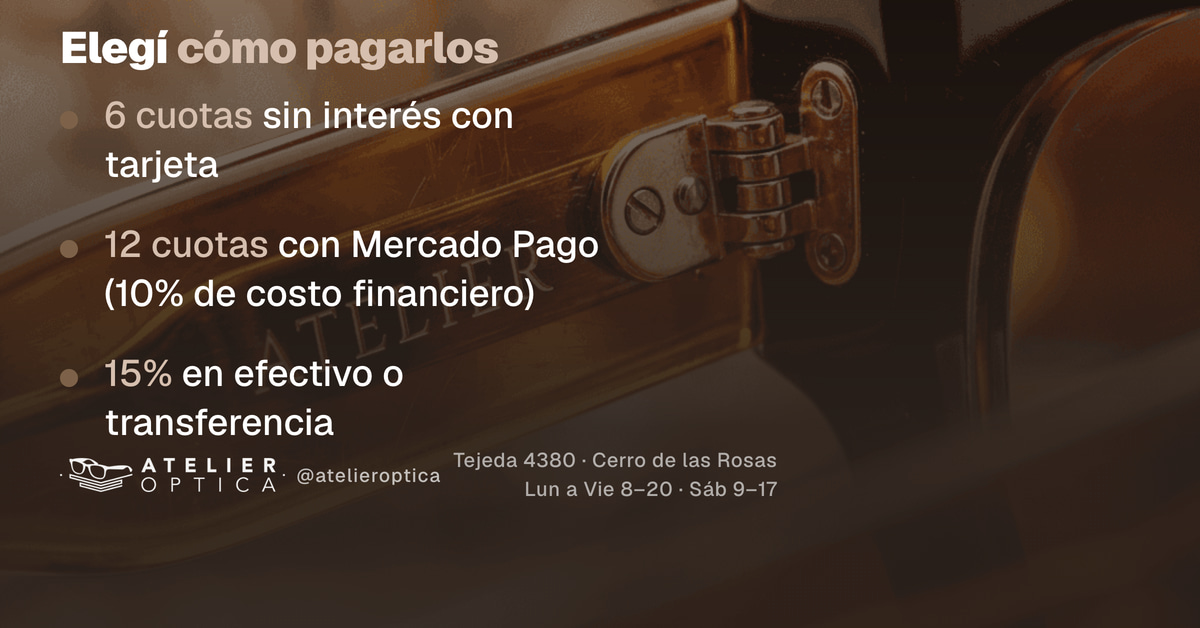
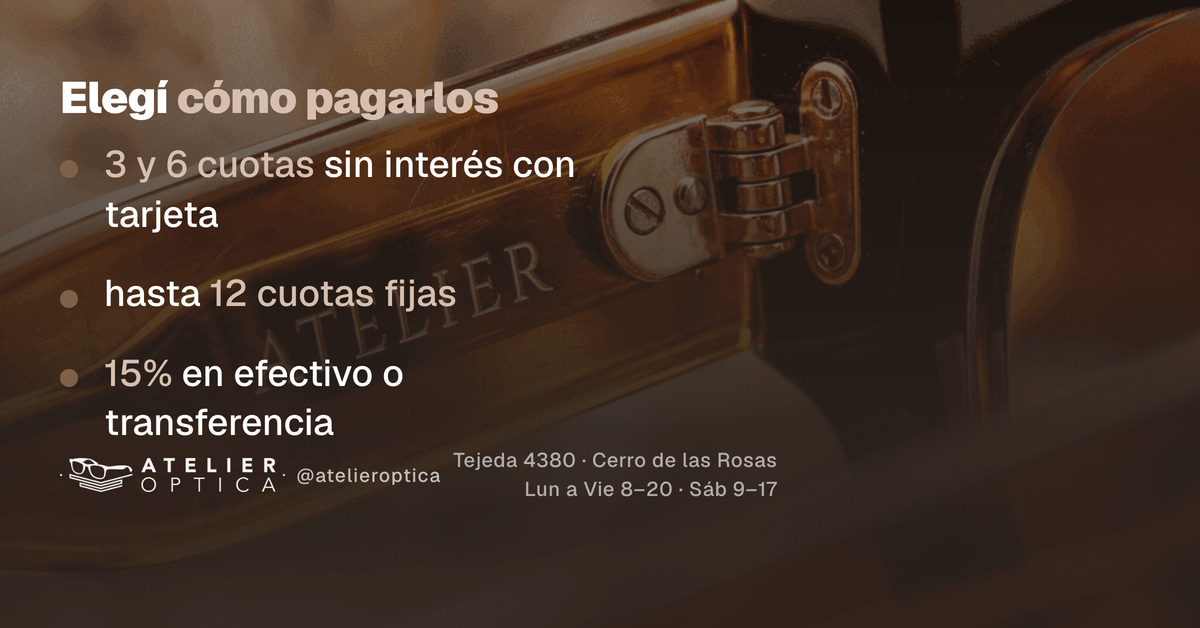
placas de remarketing al día: 700 reseñas y la fórmula nueva de cuotas, con su script de subida
Las 12 piezas ad-l2 (calificación, siguen acá, elegí cómo pagarlos) dejan de
decir 675 reseñas y el 10% de costo financiero: ahora "más de 700 reseñas" y
"3 y 6 cuotas sin interés, hasta 12 cuotas fijas" (fórmula del 31/8 a la
noche, sin porcentaje y sin "con Mercado Pago"). JPEG regenerados.

renovar_remarketing_mensajes.js deja listo el recambio de creatives del
conjunto de remarketing de "Mensajes ✉" (triple llave, dry run por defecto):
clona el asset_feed_spec de cada anuncio con las placas nuevas, activa los
dos pausados y pausa el que no conversa. No se ejecutó: falta el OK.

Changed region(s): [[0.0308, 0.242, 0.4933, 0.5143], [0.0308, 0.0303, 0.4317, 0.2118], [0.0308, 0.3631, 0.0617, 0.4236]]

diff --git a/scripts/ads/renovar_remarketing_mensajes.js b/scripts/ads/renovar_remarketing_mensajes.js
@@ -1,0 +1,159 @@
+/**
+ * Renovación de los creatives del conjunto de REMARKETING (120250649502760023)
+ * de la campaña "Mensajes ✉" (auditoría 31/8/2026).
+ *
+ * QUÉ ARREGLA:
+ *  - [placaResenas] decía "675 reseñas" (hoy son 700+) y estaba pausado.
+ *  - [metaSiguenImg] y [metaCuotasImg] decían "20% en efectivo" (condición
+ *    vieja) y no mencionaban las 12 cuotas.
+ *  - Redacción vigente (Ishtar, 31/8 noche): "3 y 6 cuotas sin interés, y
+ *    hasta 12 cuotas fijas" — nunca el %, nunca "sin interés" para las 12,
+ *    y sin "con Mercado Pago" (misma fórmula que el barrido de generadores).
+ *
+ * QUÉ HACE (los creatives son inmutables: se crea uno nuevo por anuncio y se
+ * apunta el anuncio existente ahí — conserva id, historial y atribución):
+ *  1. Sube las 12 placas nuevas (3 familias × 4 formatos) desde public/social/.
+ *  2. Por cada familia, clona el asset_feed_spec del creative actual (mismas
+ *     reglas de ubicación por formato y mismo welcome message [MetaRMK]) con
+ *     las imágenes y textos nuevos.
+ *  3. Apunta cada anuncio a su creative nuevo; activa los dos que estaban
+ *     pausados y renombra el de reseñas (decía "675").
+ *  4. Pausa [metaBuscanosImg] (US$0,77 sin chats; manda a Google en vez de
+ *     conversar). [metaFridaCuotas] queda como está: es el único con chats.
+ *
+ * Los anuncios re-apuntados vuelven a revisión de Meta: es esperable.
+ *
+ * USO:
+ *   node -r dotenv/config scripts/ads/renovar_remarketing_mensajes.js          → dry run
+ *   META_ALLOW_WRITES=1 META_AD_ACCOUNT_ID=act_2107444353167176 \
+ *     node -r dotenv/config scripts/ads/renovar_remarketing_mensajes.js --yes
+ */
+const fs = require('node:fs');
+const path = require('node:path');
+const c = require('./lib/meta_client.js');
+
+const RAIZ = path.join(__dirname, '..', '..');
+const jpeg = (pieza) => path.join(RAIZ, 'public', 'social', pieza, '01.jpg');
+
+// Cada familia: el anuncio existente, su creative actual (plantilla del clon),
+// las 4 placas nuevas por etiqueta de formato, y los textos nuevos.
+const FAMILIAS = [
+  {
+    ad: '120250650090010023', // [placaResenas] — pausado, decía 675
+    creativeViejo: '3625737997594342',
+    nombreNuevo: '[placaResenas] Más de 700 reseñas 5 estrellas',
+    activar: true,
+    imagenes: {
+      cuadrado: jpeg('ad-l2-calificacion-cuadrado'),
+      feed45: jpeg('ad-l2-calificacion'),
+      story916: jpeg('ad-l2-calificacion-story'),
+      apaisado: jpeg('ad-l2-calificacion-apaisado'),
+    },
+    body: '★ 5,0 con más de 700 reseñas en Google. “Volví a elegirlos porque la calidad es realmente impecable. Los anteojos multifocales son hermosos y de primera.” — Claudia S. Escribinos por WhatsApp y comprobalo.',
+    title: '★ 5,0 en Google — más de 700 reseñas',
+  },
+  {
+    ad: '120250649504270023', // [metaSiguenImg] — activo, condición vieja
+    creativeViejo: '1001675992939254',
+    activar: false, // ya está activo
+    imagenes: {
+      cuadrado: jpeg('ad-l2-siguen-aca-cuadrado'),
+      feed45: jpeg('ad-l2-siguen-aca'),
+      story916: jpeg('ad-l2-siguen-aca-story'),
+      apaisado: jpeg('ad-l2-siguen-aca-apaisado'),
+    },
+    body: 'Esos lentes que estuviste mirando siguen acá. 3 y 6 cuotas sin interés, hasta 12 cuotas fijas, o 15% en efectivo o transferencia. Pasá por el Cerro sin turno, o escribinos por WhatsApp.',
+    title: 'Esos lentes que viste siguen acá',
+  },
+  {
+    ad: '120250649503190023', // [metaCuotasImg] — pausado, "20% en efectivo"
+    creativeViejo: '1676510056756083',
+    activar: true,
+    imagenes: {
+      cuadrado: jpeg('ad-l2-numeros-que-cierran-cuadrado'),
+      feed45: jpeg('ad-l2-numeros-que-cierran'),
+      story916: jpeg('ad-l2-numeros-que-cierran-story'),
+      apaisado: jpeg('ad-l2-numeros-que-cierran-apaisado'),
+    },
+    body: 'Ya los viste. Ahora los números: 3 y 6 cuotas sin interés con tarjeta, hasta 12 cuotas fijas, o 15% de descuento en efectivo o transferencia. Lunes a sábado, sin turno previo. Escribinos por WhatsApp.',
+    title: 'Elegí cómo pagarlos',
+  },
+];
+
+const AD_BUSCANOS = '120250679485260023'; // [metaBuscanosImg] → pausar
+
+/** El asset_feed_spec del creative viejo, listo para crear el nuevo. */
+function clonarSpec(spec, familia, hashesPorEtiqueta) {
+  const nuevo = JSON.parse(JSON.stringify(spec));
+  // Las etiquetas se citan por nombre; los ids del creative viejo no viajan.
+  nuevo.images = Object.entries(hashesPorEtiqueta).map(([etiqueta, hash]) => ({
+    hash,
+    adlabels: [{ name: etiqueta }],
+  }));
+  for (const regla of nuevo.asset_customization_rules || []) {
+    if (regla.image_label) regla.image_label = { name: regla.image_label.name };
+  }
+  nuevo.bodies = [{ text: familia.body }];
+  nuevo.titles = [{ text: familia.title }];
+  return nuevo;
+}
+
+(async () => {
+  const yes = process.argv.includes('--yes');
+  const acct = c.accountId();
+
+  console.log('== PLAN ==');
+  for (const f of FAMILIAS) {
+    console.log(`Anuncio ${f.ad}: creative nuevo (4 placas + texto vigente)` +
+      (f.activar ? ' y ACTIVAR' : '') + (f.nombreNuevo ? ` y renombrar a "${f.nombreNuevo}"` : ''));
+    console.log('   BODY:', f.body.slice(0, 90) + '…');
+  }
+  console.log(`Pausar [metaBuscanosImg]: ${AD_BUSCANOS} (sin chats, manda a Google)`);
+  console.log('[metaFridaCuotas] queda ACTIVO como está (único con chats).');
+
+  for (const f of FAMILIAS) {
+    for (const ruta of Object.values(f.imagenes)) {
+      if (!fs.existsSync(ruta)) throw new Error(`Falta la placa ${ruta} — renderizar primero.`);
+    }
+  }
+  if (!yes) { console.log('\nDRY RUN — nada tocado. Ejecutar con --yes + META_ALLOW_WRITES=1.'); return; }
+
+  for (const f of FAMILIAS) {
+    // 1. Subir las 4 placas de la familia.
+    const hashes = {};
+    for (const [etiqueta, ruta] of Object.entries(f.imagenes)) {
+      const r = await c.post(`/${acct}/adimages`, { bytes: fs.readFileSync(ruta).toString('base64') }, { confirm: true });
+      const primera = Object.values(r.images || {})[0];
+      if (!primera?.hash) throw new Error(`Sin hash para ${ruta}`);
+      hashes[etiqueta] = primera.hash;
+      console.log(`✓ ${path.basename(path.dirname(ruta))} → ${primera.hash.slice(0, 12)}…`);
+    }
+
+    // 2. Clonar el spec del creative viejo con placas y textos nuevos.
+    const viejo = await c.get(`/${f.creativeViejo}`, { fields: 'object_story_spec,asset_feed_spec' });
+    const creative = await c.post(`/${acct}/adcreatives`, {
+      name: `${f.title} ${new Date().toISOString().slice(0, 10)}`,
+      object_story_spec: JSON.stringify({
+        page_id: viejo.object_story_spec.page_id,
+        instagram_user_id: viejo.object_story_spec.instagram_user_id,
+      }),
+      asset_feed_spec: JSON.stringify(clonarSpec(viejo.asset_feed_spec, f, hashes)),
+    }, { confirm: true });
+    console.log('✓ Creative nuevo:', creative.id);
+
+    // 3. Apuntar el anuncio (y activar/renombrar si corresponde).
+    const cambios = { creative: JSON.stringify({ creative_id: creative.id }) };
+    if (f.activar) cambios.status = 'ACTIVE';
+    if (f.nombreNuevo) cambios.name = f.nombreNuevo;
+    await c.post(`/${f.ad}`, cambios, { confirm: true });
+    console.log(`✓ Anuncio ${f.ad} apuntado al creative nuevo${f.activar ? ' y ACTIVO' : ''} (vuelve a revisión)`);
+  }
+
+  // 4. Pausar el que no conversa.
+  await c.post(`/${AD_BUSCANOS}`, { status: 'PAUSED' }, { confirm: true });
+  console.log('✓ [metaBuscanosImg] pausado');
+
+  const check = await c.getAllPages('/120250649502760023/ads', { fields: 'id,name,effective_status', limit: 50 });
+  console.log('\nEstado final del conjunto:');
+  for (const ad of check) console.log(`  ${ad.effective_status.padEnd(15)} ${ad.name}`);
+})().catch((e) => { console.error('ERROR:', e.message, e.guidance || ''); process.exit(1); });
